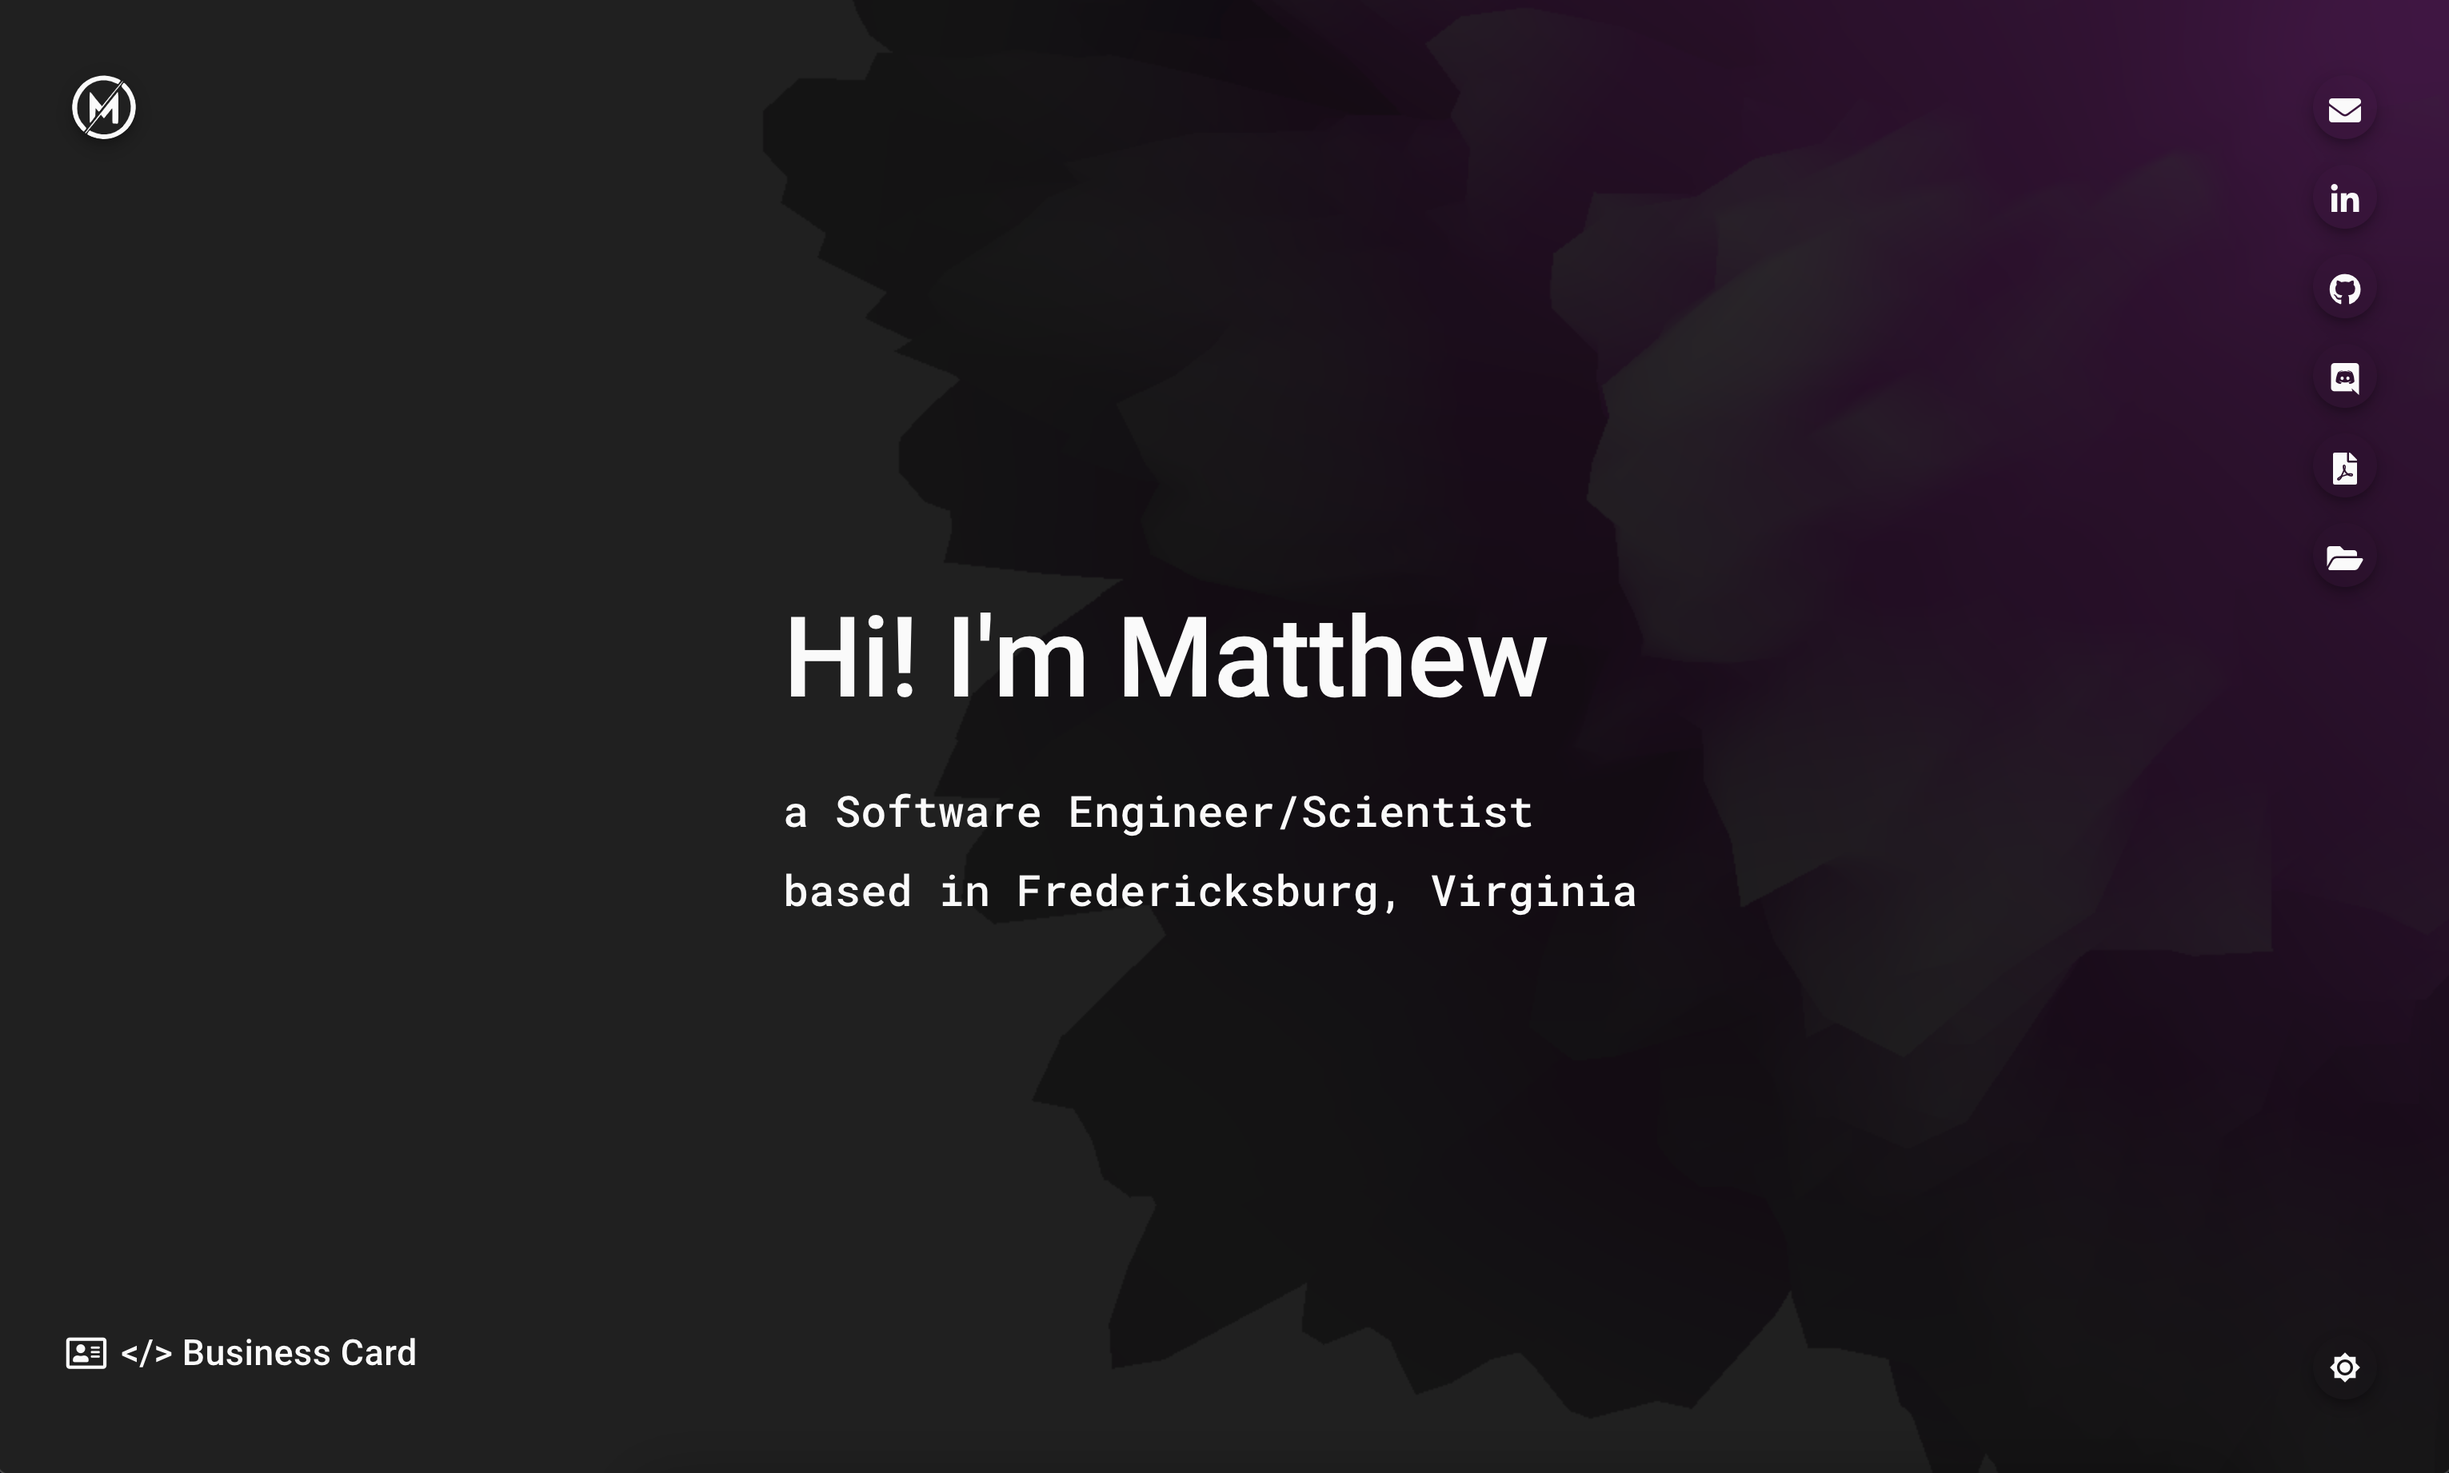
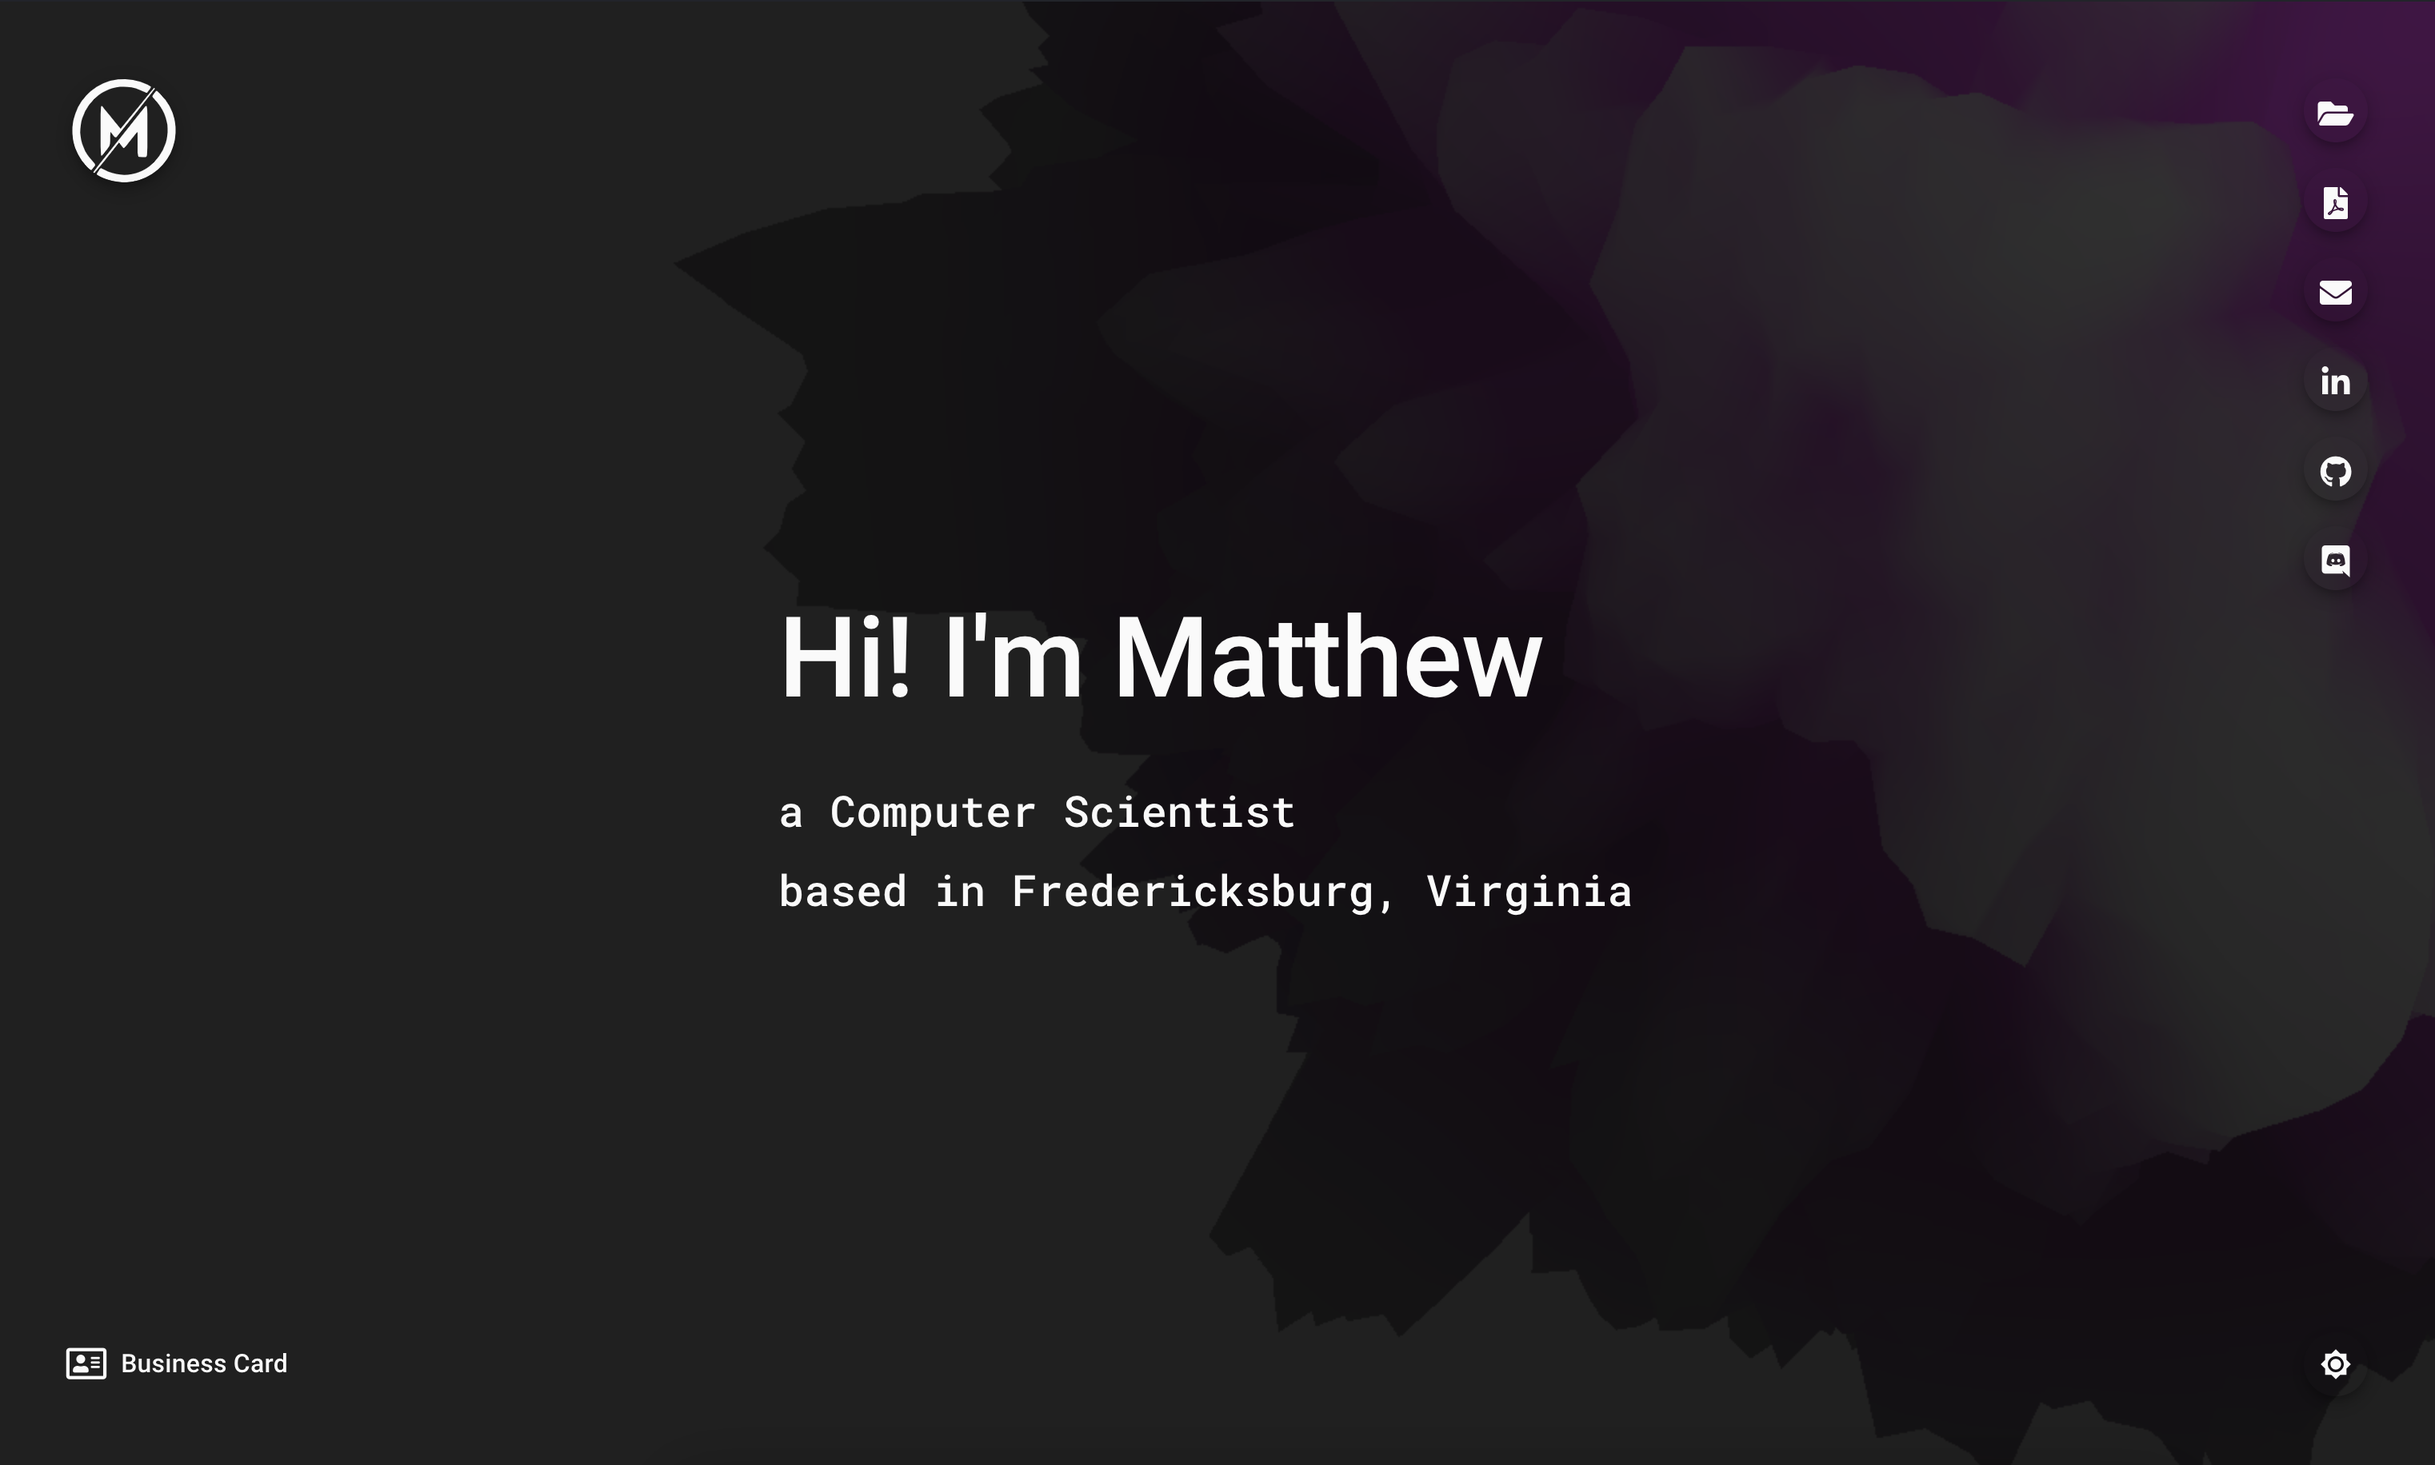
updated social image and better page not found message

diff --git a/src/pages/PageNotFound.js b/src/pages/PageNotFound.js
@@ -1,5 +1,40 @@
-import React from "react";
+import React from 'react';
+import { LogoLink } from '../components/logo/LogoLink';
+import { Error } from '../components/content/Error';
+import { Hidden } from '@material-ui/core';
+import { makeStyles } from '@material-ui/core/styles';
+import DisplacementSphere from '../components/background/DisplacementSphere';
+import { ThemeToggle } from '../components/theme/ThemeToggle';
+import { FooterText } from '../components/footer/FooterText';
+import { SocialIcons } from '../components/content/SocialIcons';
+import { SpeedDials } from '../components/speedDial/SpeedDial';
+
+const useStyles = makeStyles(() => ({
+  root: {
+    display: 'flex',
+    flexDirection: 'column',
+    minHeight: '100vh',
+  },
+}));
 
 export const PageNotFound = () => {
-    return <div>Page not found...</div>;
+  const classes = useStyles();
+
+  return (
+    <>
+      <div className={classes.root}>
+        <DisplacementSphere />
+        <LogoLink />
+        <Error />
+        <ThemeToggle />
+        <Hidden smDown>
+          <SocialIcons />
+        </Hidden>
+        <Hidden mdUp>
+          <SpeedDials />
+        </Hidden>
+        <FooterText />
+      </div>
+    </>
+  );
 };

diff --git a/src/components/content/Error.js b/src/components/content/Error.js
@@ -1,0 +1,29 @@
+import React from "react";
+import { Typography, Container } from "@material-ui/core";
+import { makeStyles } from "@material-ui/core/styles";
+import { TextDecrypt } from "./TextDecrypt";
+
+const useStyles = makeStyles((theme) => ({
+    main: {
+        marginTop: "auto",
+        marginBottom: "auto",
+        "@media (max-width: 768px)": {
+            marginLeft: theme.spacing(4),
+        },
+    },
+}));
+
+export const Error = () => {
+    const classes = useStyles();
+
+    return (
+        <Container component="main" className={`${classes.main}`} maxWidth="sm">
+            <Typography variant="h2" component="h1" gutterBottom>
+                <TextDecrypt text="Error 404"/>
+            </Typography>
+            <Typography variant="h5" component="h2" gutterBottom>
+                <TextDecrypt text="Page not found!" />
+            </Typography>
+        </Container>
+    );
+};

diff --git a/src/app/App.js b/src/app/App.js
@@ -34,7 +34,18 @@ export const App = () => {
                         window.location.href = "https://github.com/mkantrr";
                         return null;
                     }} />
-
+                    <Route path="/linkedin" component={() =>{
+                        window.location.href = "https://linkedin.com/in/mkanter124";
+                        return null;
+                    }} />
+                    <Route path="/resume" component={() =>{
+                        window.location.href = "/resume.pdf";
+                        return null;
+                    }} />
+                    <Route path="/email" component={() =>{
+                        window.location.href = "mailto:matt@matutu.dev";
+                        return null;
+                    }} />
                     <Route path="/*" component={PageNotFound} />
                 </Switch>
             </Router>
